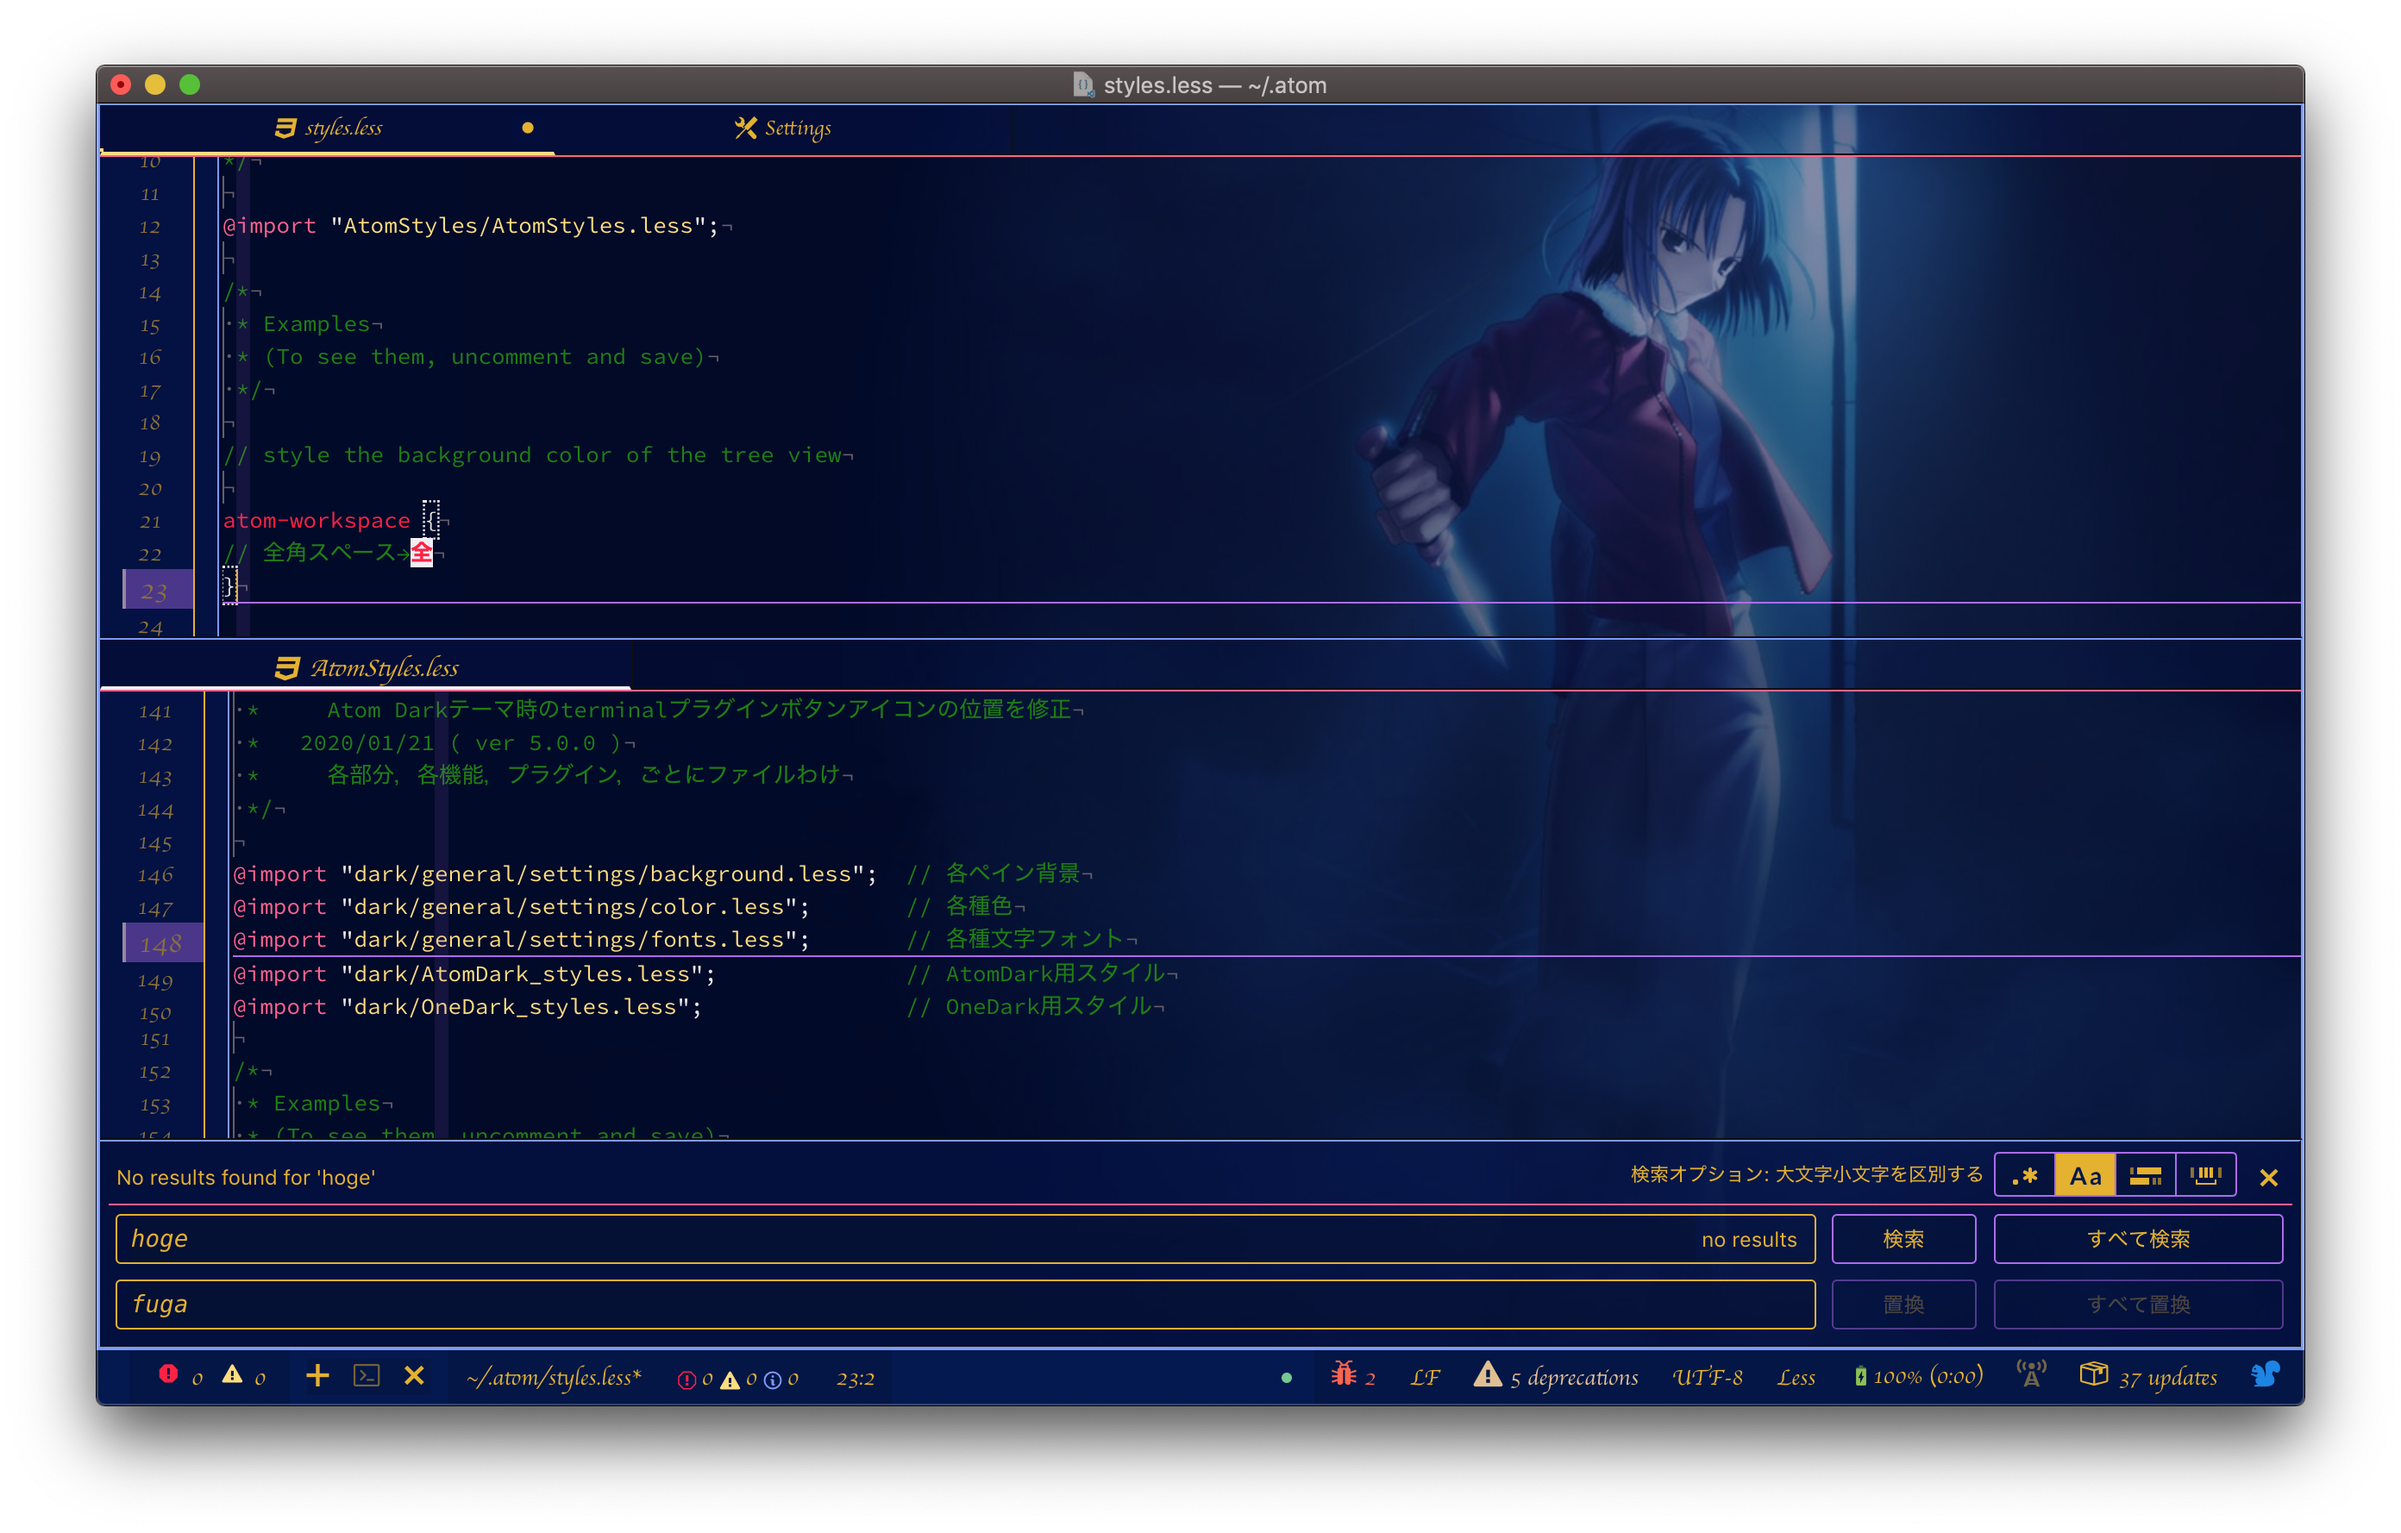
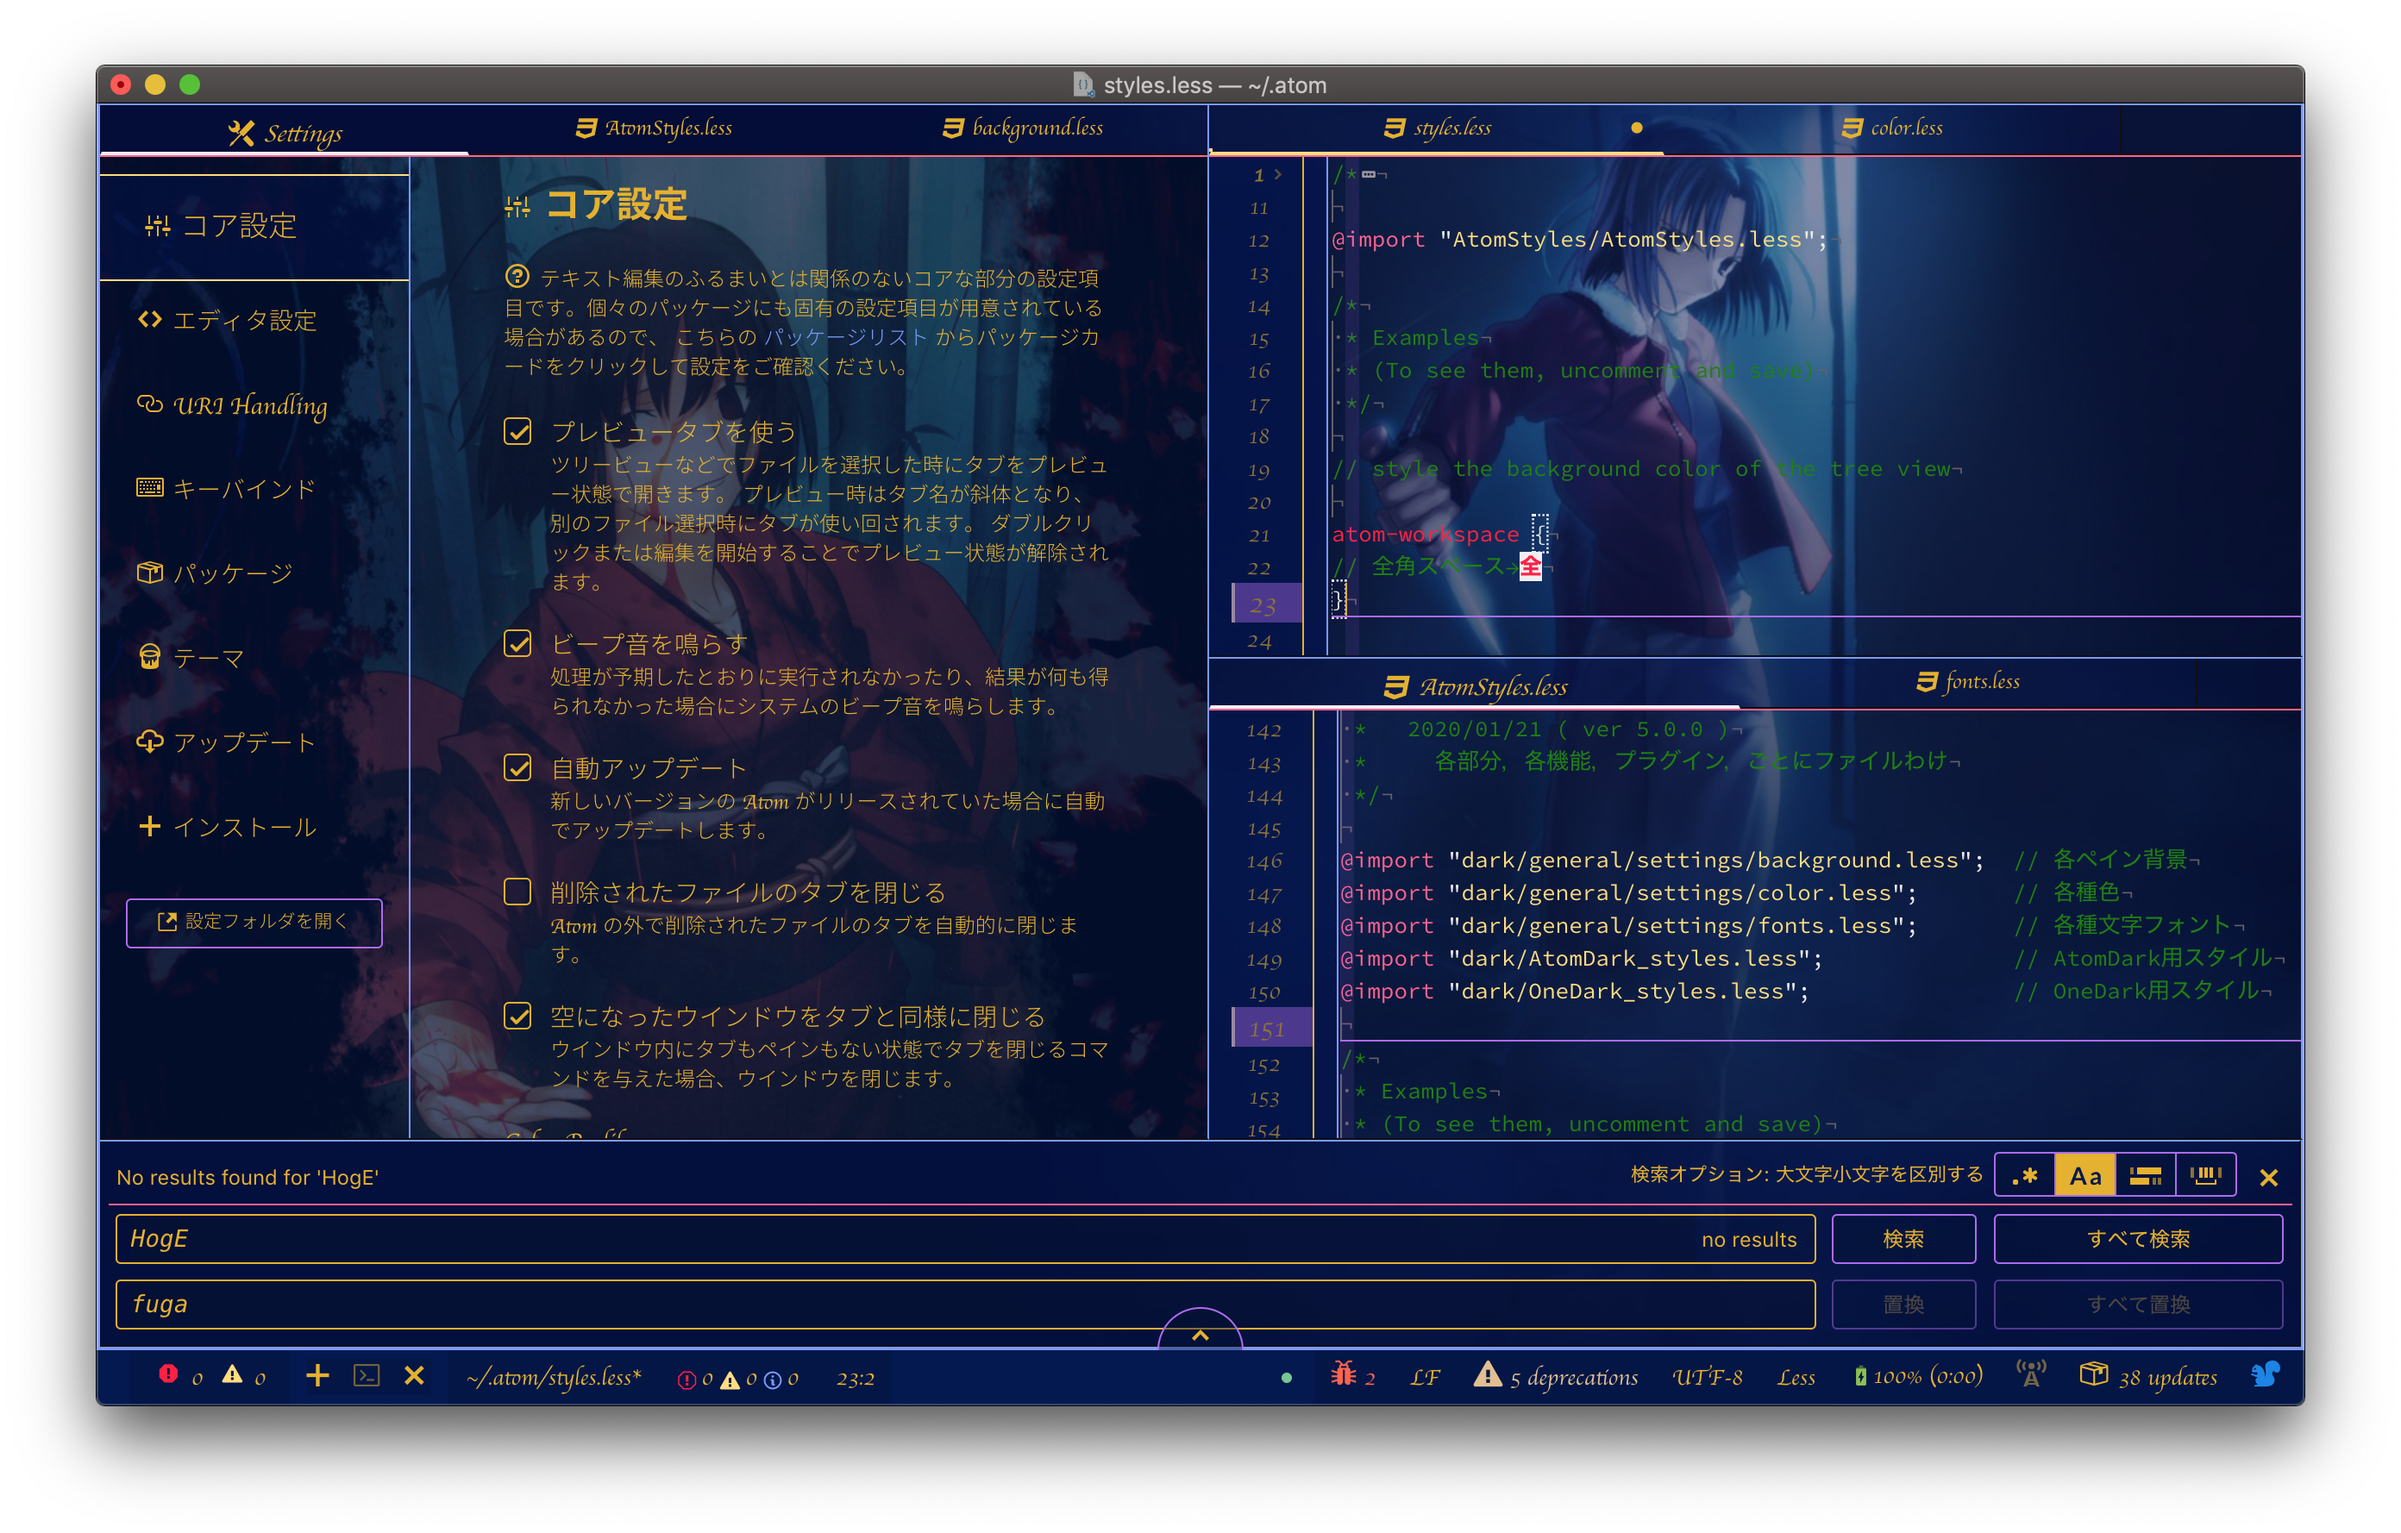
version 5.0.0

diff --git a/dark/general/settings/color.less b/dark/general/settings/color.less
@@ -386,7 +386,7 @@
 @statusBar-icon-info-color :                    @sayaka;                                     // 情報アイコン色
 
 // 設定パネル全般
-@settingsView-bgcolor :                         @pane-bgcolor;                               // 設定画面背景色
+@settingsView-bgcolor :                         rgba( 02 , 17 , 60 , 0.7 );                  // 設定画面背景色
 @settingsView-separate-color :                  @separate-color;                             // 設定画面分割色
 @settingsView-menu-bgcolor :                    @settingsView-bgcolor;                       // 設定画面メニューパネル背景色
 @settingsView-panel-bgcolor :                   @settingsView-bgcolor;                       // 設定画面設定パネル背景色
